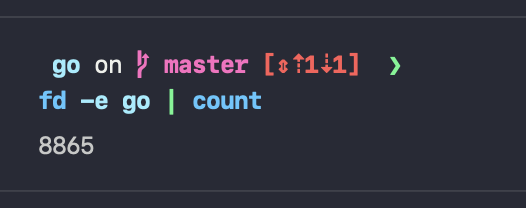
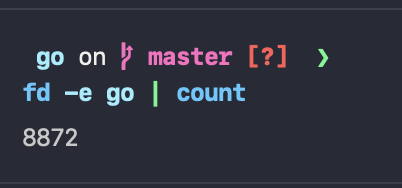
Check for directory in hasher to save another syscall

Changed region(s): [[0.0896, 0.2128, 0.8358, 0.3723], [0.0597, 0.4255, 0.6269, 0.5851], [0.0597, 0.6383, 0.209, 0.7979]]

diff --git a/hash/hash_test.go b/hash/hash_test.go
@@ -82,6 +82,43 @@ func TestHashDifferentContents(t *testing.T) {
 	}
 }
 
+func TestHashSkipsDirectories(t *testing.T) {
+	files, cleanup := makeFilesWithDirectory(t)
+	defer cleanup()
+
+	hasher := New()
+
+	digest, err := hasher.Hash(files)
+	if err != nil {
+		t.Fatalf("Hash returned an error: %v", err)
+	}
+
+	// Because the filepath is used in the hash, and the /tmp dir is different on different
+	// platforms, the hashes will be different for each, but repeatable on each
+	var original string
+	switch runtime.GOOS {
+	case "darwin":
[1 lines of base64/hex data omitted]
+	case "linux":
[1 lines of base64/hex data omitted]
+	case "windows":
+		// Some weirdness where the test would seemingly randomly fail despite the hash
+		// being correct
+		t.Skip("Skipped on Windows")
+	default:
+		t.Skipf("Unsupported platform: %s", runtime.GOOS)
+	}
+
+	// Here we've added a directory, so this test is identical to the one above
+	// but if we try and open the directory we will get an error so if this test
+	// fails with an "is a directory" error, we know we haven't ignored dirs
+	// which is the behaviour we're testing for here
+
+	if digest == original {
+		t.Error("Digest did not respond to different file contents")
+	}
+}
+
 // Test that the final digest responds to a change in filename.
 func TestHashDifferentName(t *testing.T) {
 	files, cleanup := makeFilesDifferentName(t)
@@ -222,6 +259,46 @@ func makeFilesDifferentContent(t *testing.T) ([]string, func()) {
 	for i, content := range contents {
 		files = append(files, makeFile(t, path, i, content))
 	}
+
+	cleanup := func() { _ = os.RemoveAll(path) }
+
+	return files, cleanup
+}
+
+func makeFilesWithDirectory(t *testing.T) ([]string, func()) {
+	t.Helper()
+
+	tmp := os.TempDir()
+	path := filepath.Join(tmp, "hashfiles")
+	err := os.Mkdir(path, 0755)
+	if err != nil {
+		t.Fatalf("Could not create hashfiles dir under /tmp: %v", err)
+	}
+
+	contents := []string{
+		"hello",
+		"there",
+		"general",
+		"kenobi",
+		"I'm",
+		"some slightly different files", // The different one!
+		"hash me baby",
+		"what's my hash",
+		"some slightly longer content akshdbakhsdviaysvdiqhwvd8723t8127t3871t2e",
+	}
+
+	var files []string
+
+	for i, content := range contents {
+		files = append(files, makeFile(t, path, i, content))
+	}
+
+	tmpdir, err := os.MkdirTemp(path, "dir")
+	if err != nil {
+		t.Fatalf("Could not create temp dir: %v", err)
+	}
+
+	files = append(files, tmpdir)
 
 	cleanup := func() { _ = os.RemoveAll(path) }
 

diff --git a/file/file_test.go b/file/file_test.go
@@ -108,35 +108,6 @@ func TestExpandGlobs(t *testing.T) {
 			},
 		},
 		{
-			name: "ignores directories",
-			file: &SpokFile{
-				Path:  filepath.Join(testdata, "spokfile"),
-				Vars:  make(map[string]string),
-				Globs: make(map[string][]string),
-				Tasks: map[string]task.Task{
-					"test": {
-						Doc:              "A simple test task",
-						Name:             "test",
-						GlobDependencies: []string{"**/*.dir"},
-					},
-				},
-			},
-			want: &SpokFile{
-				Path: filepath.Join(testdata, "spokfile"),
-				Vars: make(map[string]string),
-				Globs: map[string][]string{
-					"**/*.dir": {},
-				},
-				Tasks: map[string]task.Task{
-					"test": {
-						Doc:              "A simple test task",
-						Name:             "test",
-						GlobDependencies: []string{"**/*.dir"},
-					},
-				},
-			},
-		},
-		{
 			name: "outputs",
 			file: &SpokFile{
 				Path:  filepath.Join(testdata, "spokfile"),

diff --git a/file/file.go b/file/file.go
@@ -421,17 +421,7 @@ func expandGlob(root, pattern string) ([]string, error) {
 		if err != nil {
 			return nil, fmt.Errorf("could not resolve path '%s' to absolute: %w", match, err)
 		}
-		// We only want files to be returned, not directories
-		// it's possible for a directory to end in a file extension, which will
-		// cause problems when we try to open it (for hashing)
-		info, err := os.Stat(abs)
-		if err != nil {
-			return nil, fmt.Errorf("could not retrieve filesystem info for '%s': %w", abs, err)
-		}
-		if !info.IsDir() {
-			absMatches = append(absMatches, abs)
-		}
+		absMatches = append(absMatches, abs)
 	}
-
 	return absMatches, nil
 }

diff --git a/hash/hash.go b/hash/hash.go
@@ -147,6 +147,11 @@ func worker(results chan<- result, files <-chan string, wg *sync.WaitGroup) {
 		if err != nil {
 			res.err = err
 		}
+		info, _ := f.Stat()
+		// Skip directories
+		if info.IsDir() {
+			continue
+		}
 		hash := sha256.New()
 		_, err = io.Copy(hash, f)
 		f.Close()

diff --git a/README.md b/README.md
@@ -189,7 +189,7 @@ task clean() {
 
 Although still in early development, I've benchmarked spok against some very large repos and it performs very well!
 
-For example on the [golang/go] repo itself with 8865 `.go` files and the following benchmark task:
+For example on the [golang/go] repo itself with 8872 `.go` files and the following benchmark task:
 
 ```python
 # Benchmark hashing all go files
@@ -200,7 +200,7 @@ task test("**/*.go") {
 
 ![go_files](https://github.com/FollowTheProcess/spok/raw/main/docs/img/go_files.png)
 
-Spok is able to hash all 8865 files in just 300ms!
+Spok is able to hash all 8872 files in just 300ms!
 
 ![benchmark](https://github.com/FollowTheProcess/spok/raw/main/docs/img/benchmark.png)
 
